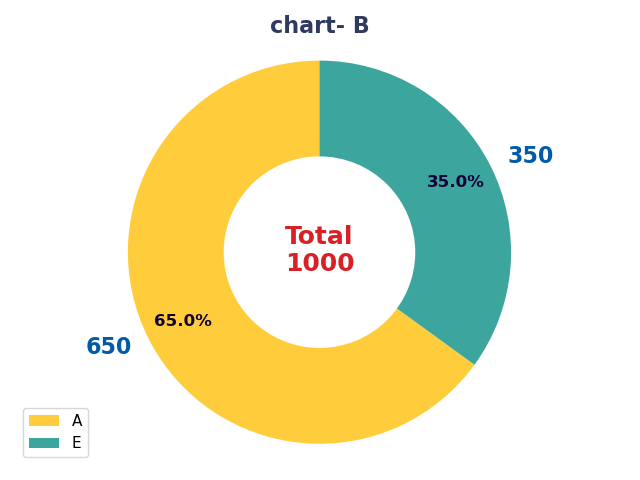
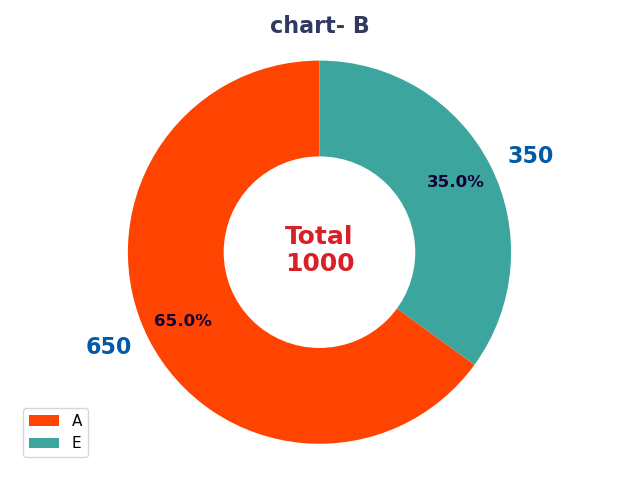
multiple images join

Changed region(s): [[0.1875, 0.125, 0.75, 0.9375], [0.0312, 0.8438, 0.0938, 0.9062]]

diff --git a/PythonTraining/Training/June05-DonutChart.py b/PythonTraining/Training/June05-DonutChart.py
@@ -34,7 +34,7 @@ def numberInComma(number):
 
 # cash = int(outstanding_df['TotalOutStandingOnCash'])
 # credit = int(outstanding_df['TotalOutStandingOnCredit'])
-data = [700,300]
+data = [400,600]
 print(data)
 
 # Center Circle Text
@@ -43,13 +43,13 @@ print(results)
 total ='Total\n'+str(results)
 
 # Define Color and lengend color
-colors = ['#f08a5d', '#3ca59d']
-legend_element = [Patch(facecolor='#f08a5d', label='A'),
+colors = ['#ff847c', '#f6cd61']
+legend_element = [Patch(facecolor='#ff847c', label='A'),
 
-                  Patch(facecolor='#3ca59d', label='E')]
+                  Patch(facecolor='#f6cd61', label='E')]
 # -------------------------
 
-data_label = [700,300]
+data_label = [400,600]
 print(data_label)
 
 
@@ -65,9 +65,9 @@ centre_circle = plt.Circle((0,0),0.50,fc='white')
 fig1.gca().add_artist(centre_circle)
 
 
-plt.title('chart- D', fontsize=16, fontweight='bold', color='#303960')
+plt.title('chart- C', fontsize=16, fontweight='bold', color='#303960')
 ax.axis('equal')
 plt.legend(handles=legend_element, loc='lower left', fontsize=11)
 plt.tight_layout()
-plt.savefig('figure-D.png')
+plt.savefig('figure-C.png')
 plt.show()

diff --git a/PythonTraining/Training/July07_Image_Join.py b/PythonTraining/Training/July07_Image_Join.py
@@ -1,0 +1,38 @@
+# B.M.ASHIK MAHMUD
+# TRAINING PYTHON - IMAGE JOIN
+
+from PIL import Image
+
+img1 = Image.open("F:/PythonLearning/PythonTraining/Training/figure-A.png")
+img2 = Image.open("F:/PythonLearning/PythonTraining/Training/figure-B.png")
+img3 = Image.open("F:/PythonLearning/PythonTraining/Training/figure-C.png")
+img4 = Image.open("F:/PythonLearning/PythonTraining/Training/figure-D.png")
+
+# img4.show()
+
+# JOIN TWO IMAGE
+# width,height = img1.size
+# imageSize = Image.new('RGB',(1200,480)) # Defininf the main Frame size
+# imageSize.paste(img1,(0,0))
+# imageSize.paste(img2,(width,0))
+# imageSize.save("two_image.png")
+#
+# imgJointwo = Image.open("F:/PythonLearning/PythonTraining/Training/two_image.png")
+# imgJointwo.show()
+
+
+
+# JOIN Four IMAGE
+width,height = img1.size
+imageSize = Image.new('RGB',(1200,960)) # Defininf the main Frame size
+imageSize.paste(img1,(0,0))
+imageSize.paste(img2,(width,0))
+imageSize.paste(img3,(0,height))
+imageSize.paste(img4,(width,height))
+
+imageSize.save("four_image.png")
+
+imgJointwo = Image.open("F:/PythonLearning/PythonTraining/Training/four_image.png")
+imgJointwo.show()
+
+
